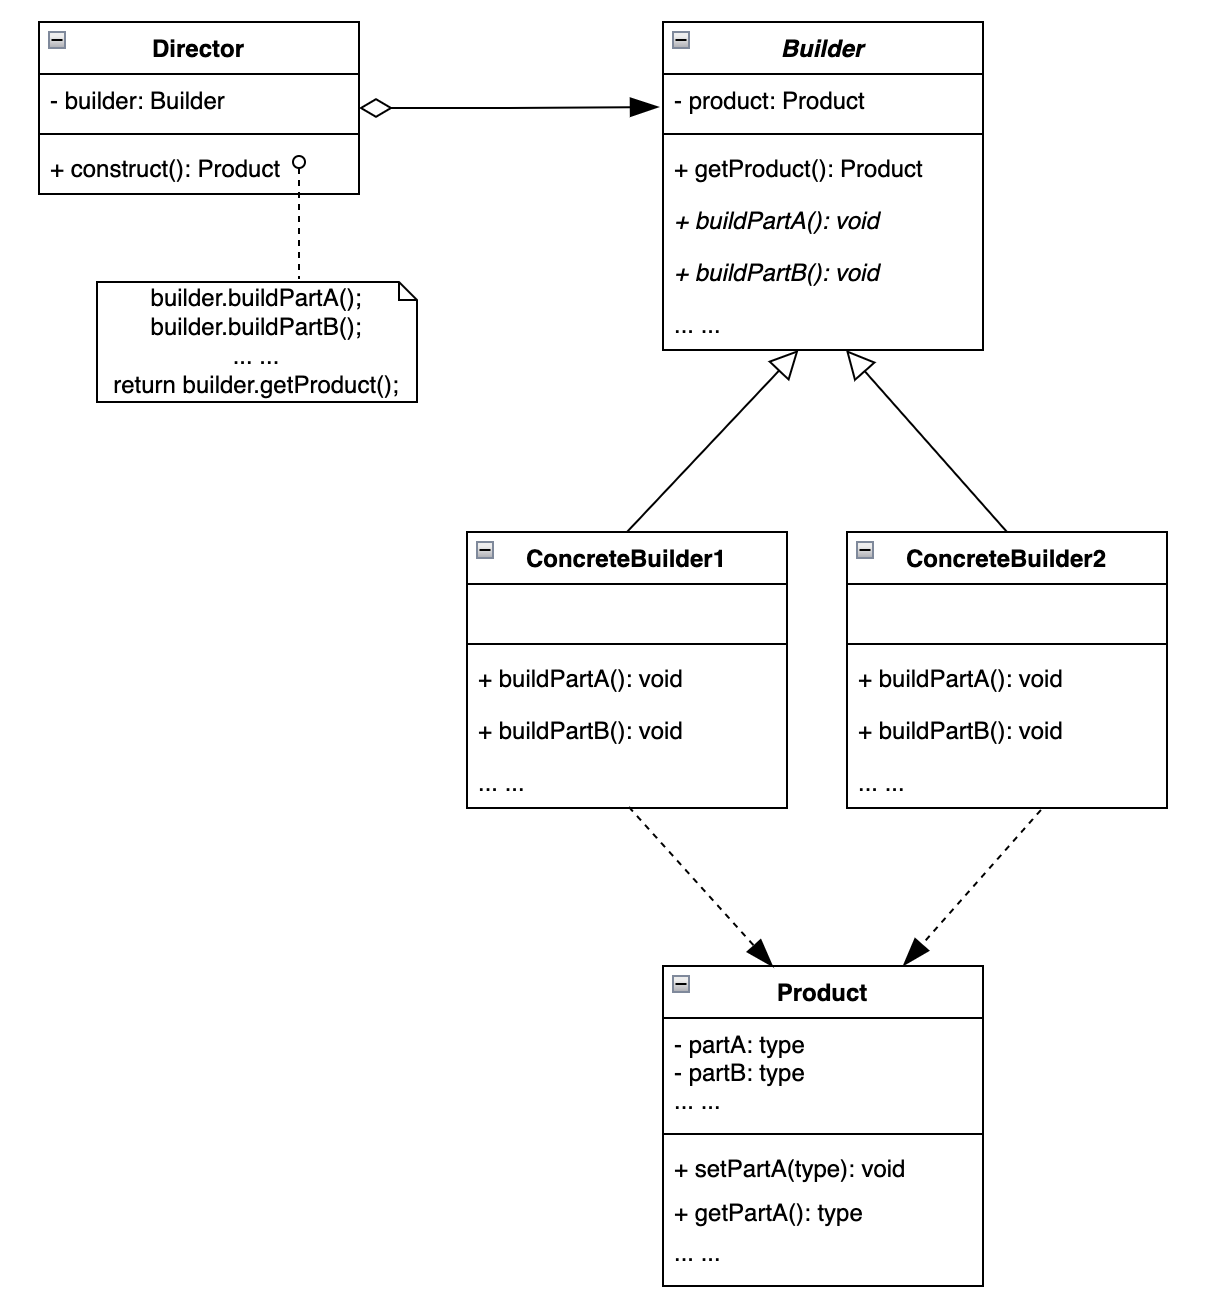
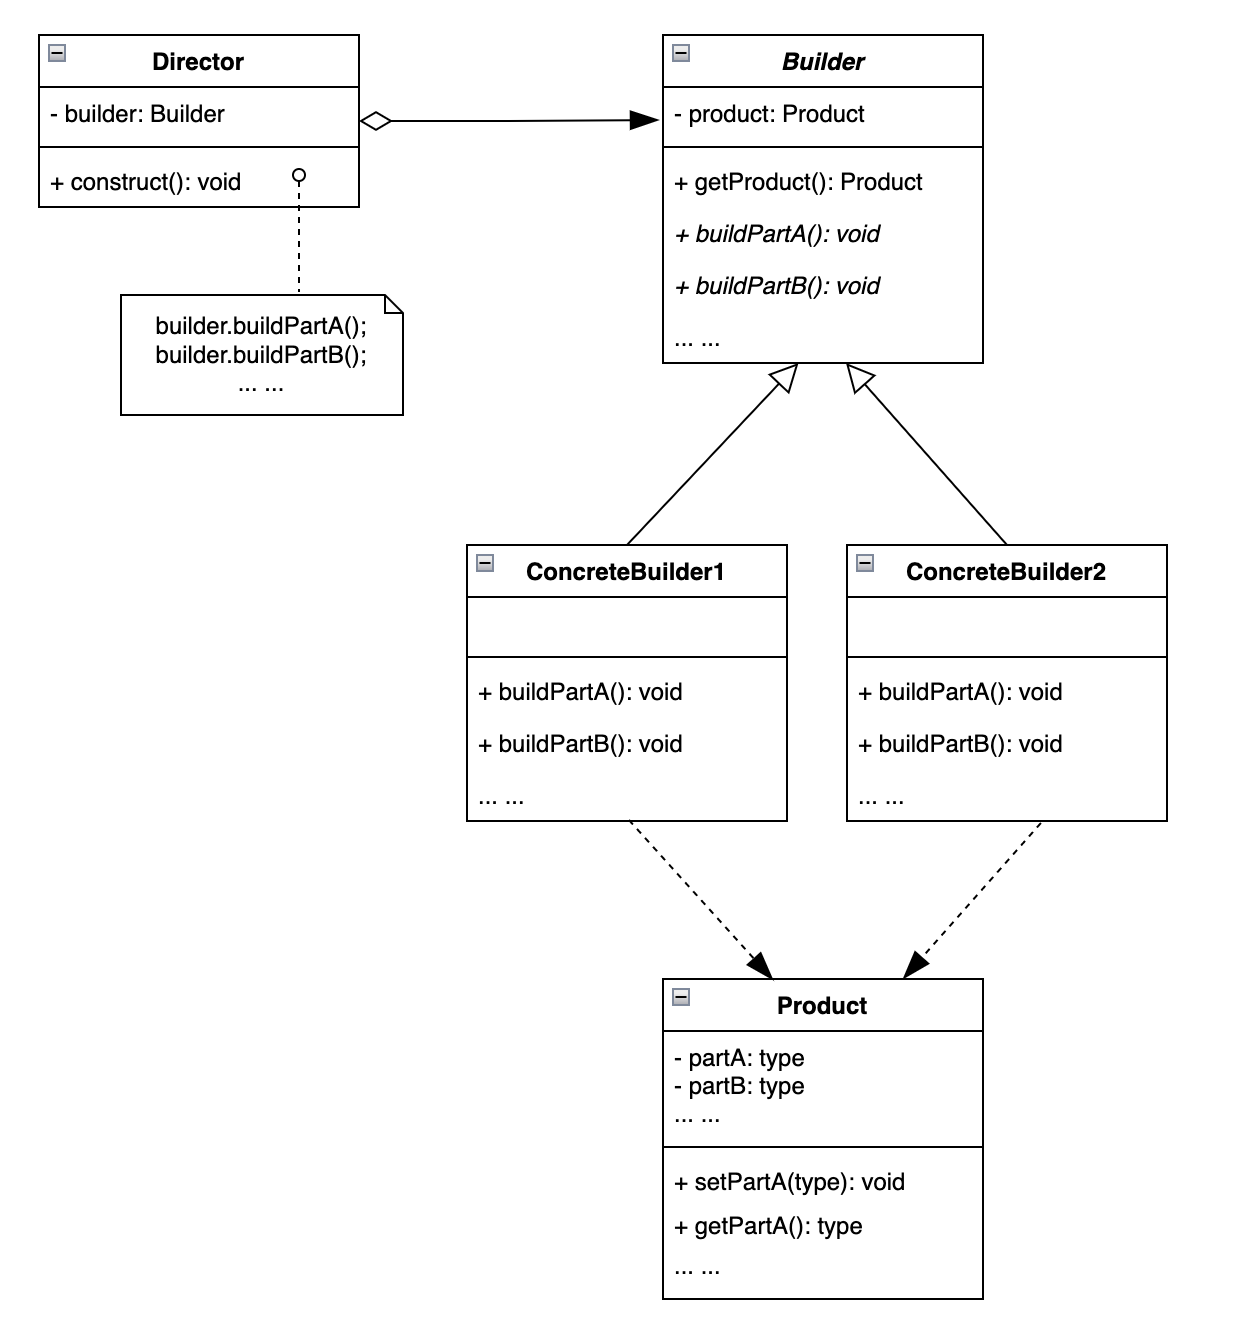
Add Builder pattern

diff --git a/src/test/java/GoF/creational/builder/src/BuilderTest.java b/src/test/java/GoF/creational/builder/src/BuilderTest.java
@@ -1,0 +1,41 @@
+package GoF.creational.builder.src;
+
+import org.junit.jupiter.api.BeforeEach;
+import org.junit.jupiter.api.Test;
+
+import static org.junit.jupiter.api.Assertions.*;
+
+class BuilderTest {
+    private Director tested;
+    private Builder builder;
+    private Product expected1;
+    private Product expected2;
+
+    @BeforeEach
+    void setUp() {
+        expected1 = new Product(1, "1", 1L);
+        expected2 = new Product(2, "2", 2L);
+    }
+
+    @Test
+    public void test1() {
+        builder = new ConcreteBuilder1();
+        tested = new Director(builder);
+        tested.construct();
+        assertSameProduct(builder.getProduct(), expected1);
+    }
+
+    @Test
+    public void test2() {
+        builder = new ConcreteBuilder2();
+        tested = new Director(builder);
+        tested.construct();
+        assertSameProduct(builder.getProduct(), expected2);
+    }
+
+    private void assertSameProduct(Product actual, Product expected) {
+        assertEquals(actual.getPartA(), expected.getPartA());
+        assertEquals(actual.getPartB(), expected.getPartB());
+        assertEquals(actual.getPartC(), expected.getPartC());
+    }
+}

diff --git a/src/main/java/GoF/creational/builder/src/Product.java b/src/main/java/GoF/creational/builder/src/Product.java
@@ -1,0 +1,41 @@
+package GoF.creational.builder.src;
+
+public class Product {
+    private int partA;
+    private String partB;
+    private long partC;
+
+    public Product() {
+
+    }
+
+    public Product(int partA, String partB, long partC) {
+        this.partA = partA;
+        this.partB = partB;
+        this.partC = partC;
+    }
+
+    public int getPartA() {
+        return partA;
+    }
+
+    public void setPartA(int partA) {
+        this.partA = partA;
+    }
+
+    public String getPartB() {
+        return partB;
+    }
+
+    public void setPartB(String partB) {
+        this.partB = partB;
+    }
+
+    public long getPartC() {
+        return partC;
+    }
+
+    public void setPartC(long partC) {
+        this.partC = partC;
+    }
+}

diff --git a/src/main/java/GoF/creational/builder/src/Builder.java b/src/main/java/GoF/creational/builder/src/Builder.java
@@ -1,0 +1,19 @@
+package GoF.creational.builder.src;
+
+public abstract class Builder {
+    public Product product;
+
+    public Builder() {
+        product = new Product();
+    }
+
+    public abstract void buildPartA();
+
+    public abstract void buildPartB();
+
+    public abstract void buildPartC();
+
+    public Product getProduct() {
+        return product;
+    }
+}

diff --git a/src/main/java/GoF/creational/builder/src/ConcreteBuilder1.java b/src/main/java/GoF/creational/builder/src/ConcreteBuilder1.java
@@ -1,0 +1,19 @@
+package GoF.creational.builder.src;
+
+public class ConcreteBuilder1 extends Builder {
+
+    @Override
+    public void buildPartA() {
+        product.setPartA(1);
+    }
+
+    @Override
+    public void buildPartB() {
+        product.setPartB("1");
+    }
+
+    @Override
+    public void buildPartC() {
+        product.setPartC(1L);
+    }
+}

diff --git a/src/main/java/GoF/creational/builder/src/ConcreteBuilder2.java b/src/main/java/GoF/creational/builder/src/ConcreteBuilder2.java
@@ -1,0 +1,18 @@
+package GoF.creational.builder.src;
+
+public class ConcreteBuilder2 extends Builder {
+    @Override
+    public void buildPartA() {
+        product.setPartA(2);
+    }
+
+    @Override
+    public void buildPartB() {
+        product.setPartB("2");
+    }
+
+    @Override
+    public void buildPartC() {
+        product.setPartC(2L);
+    }
+}

diff --git a/src/main/java/GoF/creational/builder/src/Director.java b/src/main/java/GoF/creational/builder/src/Director.java
@@ -1,0 +1,15 @@
+package GoF.creational.builder.src;
+
+public class Director {
+    private Builder builder;
+
+    public Director(Builder builder) {
+        this.builder = builder;
+    }
+
+    public void construct() {
+        builder.buildPartA();
+        builder.buildPartB();
+        builder.buildPartC();
+    }
+}

diff --git a/src/main/java/GoF/creational/builder/builder.md b/src/main/java/GoF/creational/builder/builder.md
@@ -1,0 +1,169 @@
+# Builder 建造者模式
+
+## 设计目的
+
+将一个复杂对象的构建与它的表示分离，使得同样的构建过程可以创建不同的表示。
+
+## 解决的问题
+
+与其他的创建型模式相比，建造者模式更注重产品的构建过程，将产品的构建过程和产品的表示分离开来，通过不同的具体Builder实现类来构建同一产品的不同表示。
+
+客户端无需了解构建的过程。
+
+## 设计关键
+
+* Product类
+
+  要构建的对象，结构复杂、属性多，各部分的构建可能需要遵循一定的顺序。
+
+* Builder类
+
+  提供构建产品各部分的方法，存储产品对象，并提供获取产品对象的方法。
+
+* Director类
+
+  调用builder中的方法，按照顺序构建产品的各部分。
+
+### Q&A
+
+Q1：不一定要有一个共同的抽象的product。
+
+## 类图
+
+![](imgs/img1.png)
+
+## 实现方法
+
+### Product
+
+```java
+public class Product {
+    private int partA;
+    private String partB;
+    private long partC;
+
+    public Product() {
+
+    }
+
+    public Product(int partA, String partB, long partC) {
+        this.partA = partA;
+        this.partB = partB;
+        this.partC = partC;
+    }
+
+    public int getPartA() {
+        return partA;
+    }
+
+    public void setPartA(int partA) {
+        this.partA = partA;
+    }
+
+    public String getPartB() {
+        return partB;
+    }
+
+    public void setPartB(String partB) {
+        this.partB = partB;
+    }
+
+    public long getPartC() {
+        return partC;
+    }
+
+    public void setPartC(long partC) {
+        this.partC = partC;
+    }
+}
+```
+
+### Builder
+
+```java
+public abstract class Builder {
+    public Product product;
+
+    public Builder() {
+        product = new Product();
+    }
+
+    public abstract void buildPartA();
+
+    public abstract void buildPartB();
+
+    public abstract void buildPartC();
+
+    public Product getProduct() {
+        return product;
+    }
+}
+```
+
+### ConcreteBuilder1
+
+```java
+public class ConcreteBuilder1 extends Builder {
+
+    @Override
+    public void buildPartA() {
+        product.setPartA(1);
+    }
+
+    @Override
+    public void buildPartB() {
+        product.setPartB("1");
+    }
+
+    @Override
+    public void buildPartC() {
+        product.setPartC(1L);
+    }
+}
+```
+
+### ConcreteBuilder2
+
+```java
+public class ConcreteBuilder2 extends Builder {
+    @Override
+    public void buildPartA() {
+        product.setPartA(2);
+    }
+
+    @Override
+    public void buildPartB() {
+        product.setPartB("2");
+    }
+
+    @Override
+    public void buildPartC() {
+        product.setPartC(2L);
+    }
+}
+```
+
+### Director
+
+```java
+public class Director {
+    private Builder builder;
+
+    public Director(Builder builder) {
+        this.builder = builder;
+    }
+
+    public void construct() {
+        builder.buildPartA();
+        builder.buildPartB();
+        builder.buildPartC();
+    }
+}
+```
+
+## 应用场景
+
+* 产品内部结构比较复杂；
+* 产品属性之间存在依赖关系，即一个属性必须在另一个属性构建之后构建。
+
+## 工业应用
